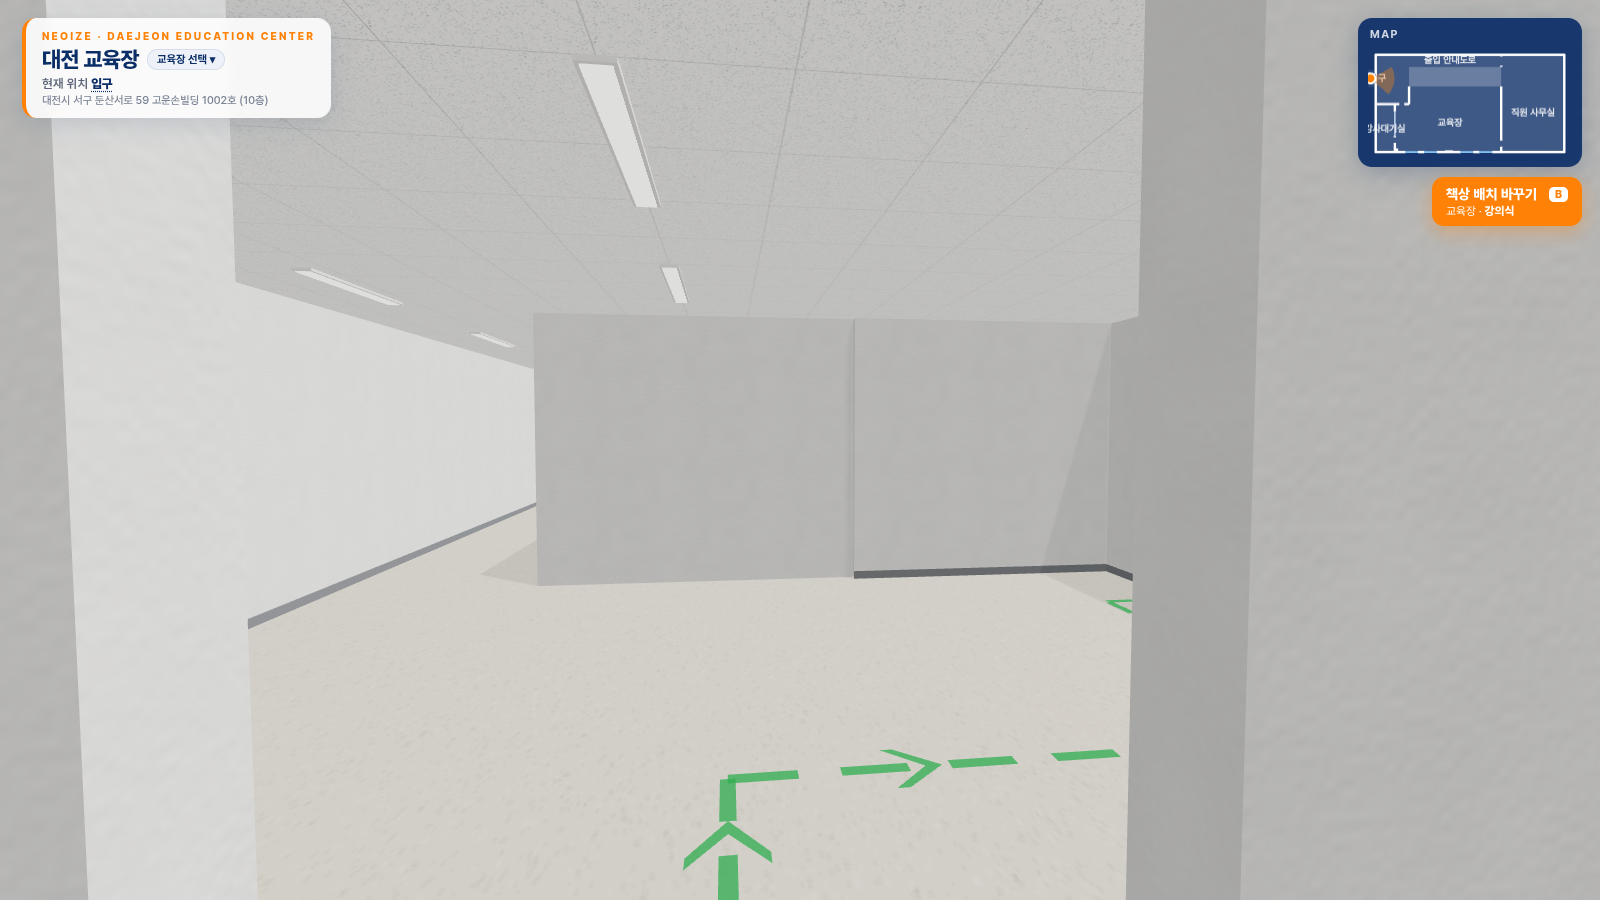
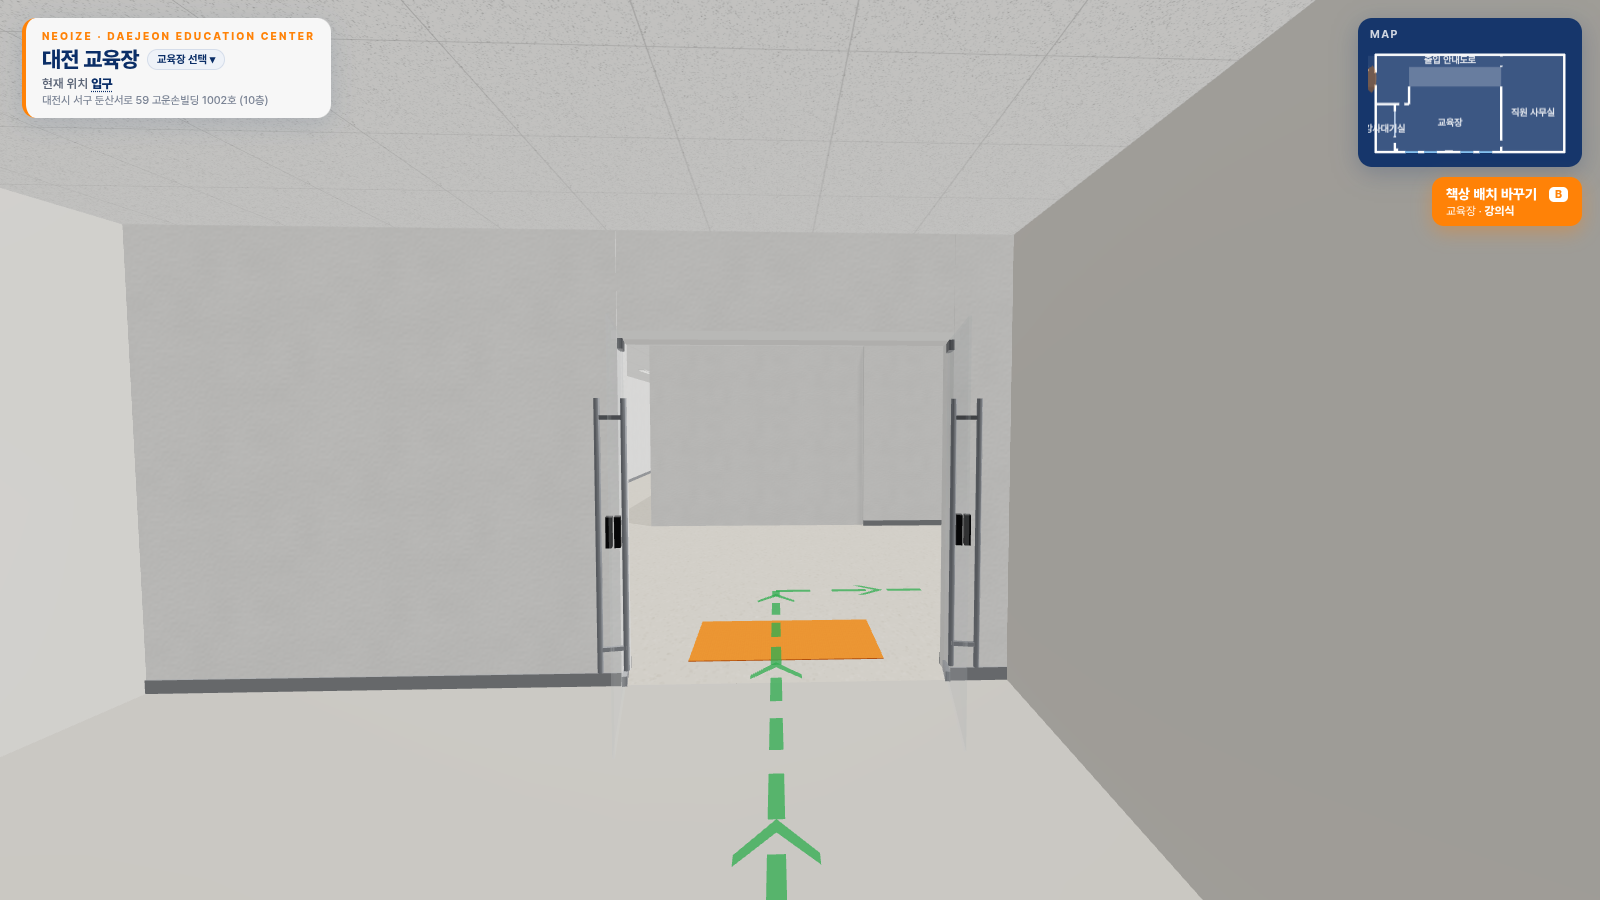
대전 입구를 f7228b4 구조로 되돌림(엘리베이터 로비·유리 양문·주황 매트·경로·시작 위치)

diff --git a/sites/daejeon/layout.js b/sites/daejeon/layout.js
@@ -7,7 +7,7 @@
    - 교육장(빨간 선, L자): 윗부분 x5.62–20.83 z5.30–8.19 + 아랫부분 x3.28–20.83 z8.19–16.15
    - 출입 안내도로(복도): 북쪽 띠 z0–5.30, 서쪽 x0–3.28, 동쪽 x20.83–31.36
    - 북쪽 띠 안의 흰 상자(px x153–348, y50–91) = 다른 공간(투어 제외) → columns 의 label 블록
-   - 입구(공식 안내도 10F 기준): 엘리베이터(서쪽 벽 바로 밖) → 서쪽 벽의 문 없는 틈 z3.28–4.68 → 서쪽 복도를 따라 남쪽 → 교육장 북서쪽 문(z8.19)
+   - 입구(공식 안내도 10F 기준): 엘리베이터(건물 서쪽 밖 로비) → 서쪽 바깥벽 z3.05–5.05 유리 양문 → 서쪽 복도를 따라 남쪽 → 교육장 북서쪽 문(z8.19)
    - 안내도 명칭: 북쪽 띠 안 상자 = 온라인 교육장, 서쪽 아래 = 강사대기실, 동쪽 = 직원 사무실 (투어는 교육장 중심)
    ※ 도면 비율로 잡은 추정값이에요. 실측값을 받으면 숫자만 바꾸면 됩니다.
    ===================================================================== */
@@ -17,7 +17,7 @@ window.LAYOUT = {
   photoDir: 'sites/daejeon/photos/',
 
   // 건물 밖 엘리베이터 로비(안내도: 엘리베이터는 서쪽 바깥벽 밖, 화장실은 엘리베이터 북쪽) — 걸을 수 있는 바닥 + 벽·천장
-  outside: [ [-1.3, 2.6, 0, 5.4] ],   // 엘리베이터 앞 얕은 승강장(1.3m) — 서쪽 벽의 열린 틈으로 바로 서쪽 복도와 이어짐
+  outside: [ [-4.6, 0.3, 0, 5.4] ],
   outsideWalls: true,
   backdrop: [ { side:'south', dist:9 } ],   // 남쪽 창밖 하늘 + 도시
 
@@ -27,9 +27,9 @@ window.LAYOUT = {
       card:{ photos:[],
              desc:'대전 교육장(L자 공간). 동쪽 벽 앞에 천장형 전동 스크린과 양옆 유리 화이트보드, 천장 빔프로젝터가 있고, 남쪽은 큰 창문 4개예요. 흰 접이식 책상 4열 × 4개(32석), 메시 등받이 의자. 북서쪽 벽을 따라 정수기 · 제빙기 · 커피머신이 있어요.',
              services:['전동 스크린','빔프로젝터','유리 화이트보드','스피커','냉난방','정수기','제빙기','커피머신'] } },
-    { id:'entrance', name:'입구', en:'Entrance', small:true, rect:[0, 2.11, 5.62, 8.19], rects:[[-1.3, 2.6, 0, 5.4]], floor:'floor',
-      label:[0.5, 3.98], jump:{ x:-0.75, z:3.98, look:[4.45, 4.6] },
-      card:{ photos:[], desc:'10층 엘리베이터에서 내리면 문 없이 바로 서쪽 복도(출입 안내도로)예요. 초록 경로를 따라 복도를 남쪽으로 내려가면 교육장 북서쪽 문이에요. 화장실은 엘리베이터 바로 북쪽이에요.' } },
+    { id:'entrance', name:'입구', en:'Entrance', small:true, rect:[0, 2.11, 5.62, 8.19], rects:[[-4.6, 0.3, 0, 5.4]], floor:'floor',
+      label:[-2.3, 2.6], jump:{ x:-3.7, z:3.98, look:[4.45, 4.3] },
+      card:{ photos:[], desc:'10층 엘리베이터에서 내리면 바로 동쪽(오른쪽)에 출입문이 있어요. 들어와서 초록 경로를 따라 서쪽 복도로 남쪽으로 내려가면 교육장 북서쪽 문이에요. 화장실은 엘리베이터 북쪽이에요.' } },
     { id:'road_w', name:'강사대기실', en:'Instructor Room', small:true, rect:[0, 8.19, 3.28, 16.15], floor:'floor', label:[1.64, 12.2],
       jump:{ x:1.6, z:10.0, look:[1.6, 15.0] }, card:{ photos:[], desc:'교육장 서쪽의 강사대기실. 교육장 뒤(서쪽) 벽의 흰 문으로 이어져요.' } },
     { id:'road_n', name:'출입 안내도로', en:'Corridor', small:true, rect:[0, 0, 20.83, 2.11], floor:'floor', label:[12.4, 1.05],
@@ -42,8 +42,8 @@ window.LAYOUT = {
 
   // 바닥 동선(안내도의 초록 '이동경로'): 엘리베이터 → 서쪽 출입문 → 서쪽 복도 남쪽 → 교육장 북서쪽 문 / 엘리베이터 → 화장실(북쪽)
   routes: [
-    { color:'#2fa84f', points:[[-0.9, 3.98], [2.0, 3.98], [2.0, 7.4], [4.43, 7.4], [4.43, 9.4]] },
-    { color:'#2fa84f', opacity:0.55, points:[[-0.75, 3.5], [-0.75, 2.75]] }
+    { color:'#2fa84f', points:[[-3.9, 3.98], [2.0, 3.98], [2.0, 7.4], [4.43, 7.4], [4.43, 9.4]] },
+    { color:'#2fa84f', opacity:0.55, points:[[-3.9, 3.4], [-3.9, 1.0]] }
   ],
 
   walls: [
@@ -51,7 +51,7 @@ window.LAYOUT = {
     { from:[0, 0], to:[31.36, 0], type:'solid', outer:true },
     { from:[31.36, 0], to:[31.36, 16.15], type:'solid', outer:true },
     { from:[0, 0], to:[0, 16.15], type:'solid', outer:true,
-      openings:[ { at:3.28, width:1.4, full:true } ] },   // 입구 = 문 없는 열린 틈(엘리베이터 폭) — 엘리베이터에서 내리면 바로 서쪽 복도
+      openings:[ { at:3.05, width:2.0, door:'glass', double:true, entrance:true, frame:'white', open:true } ] },   // 입구 (px y62–88)
     // 남쪽: 초록 = 창문 4개 (px 145–172, 185–212, 262–289, 302–329)
     { from:[0, 16.15],     to:[4.99, 16.15],  type:'solid',  outer:true },
     { from:[4.99, 16.15],  to:[7.10, 16.15],  type:'window', outer:true, style:'casement', sill:0.8, head:2.4, bar:1.95, bay:0.7 },
@@ -211,11 +211,12 @@ window.LAYOUT = {
     { type:'exitSign', x:2.6, z:16.02, y:2.2, rot:0 },          // 강사대기실 남서쪽
     { type:'extinguisher', x:2.9, z:15.75 },
 
-    /* --- 엘리베이터 승강장(서쪽 벽 바로 밖, 복도로 열림): 엘리베이터 + 옆 비상구 표시, 북쪽 화장실 --- */
-    { type:'elevator', x:-1.24, z:3.98, rot:-90 },
-    { type:'exitSign', x:-1.23, z:5.05, y:2.2, rot:-90 },     // 엘리베이터 옆 비상구 표시
-    { type:'restroom', x:-0.65, z:2.62, rot:180 },            // 엘리베이터 바로 북쪽 화장실
+    /* --- 엘리베이터 로비(건물 밖 서쪽): 엘리베이터 + 옆 비상구 표시, 북쪽 화장실 --- */
+    { type:'elevator', x:-4.55, z:3.98, rot:-90 },
+    { type:'exitSign', x:-4.54, z:2.4, y:2.2, rot:-90 },
+    { type:'restroom', x:-2.3, z:0.35, rot:180 },
 
     /* --- 입구 --- */
+    { type:'mat', x:0.75, z:4.05, w:0.8, d:1.3, color:'orange' }
   ]
 };

diff --git a/index.html b/index.html
@@ -178,10 +178,10 @@ a.pk-card:hover{transform:translateY(-4px);box-shadow:0 16px 36px rgba(11,46,103
   </div>
 </aside>
 <!-- 교육장 목록: sites/sites.js / 교육장별 공간 설정: sites/<id>/layout.js (치수·가구 배치는 거기서 수정) -->
-<script src="sites/sites.js?v=11191800"></script>
+<script src="sites/sites.js?v=11191830"></script>
 <script type="importmap">{"imports":{"three":"./lib/three.module.min.js","three/addons/":"./lib/addons/"}}</script>
 <script type="module">
-const V = '11191800', SITES = window.SITES || [], q = new URLSearchParams(location.search);
+const V = '11191830', SITES = window.SITES || [], q = new URLSearchParams(location.search);
 let id = q.get('site');
 if (!id && [...q.keys()].length) id = 'seoul';            // 예전 링크(?room=… 등)는 서울 구로로
 const S = SITES.find((s) => s.id === id);

diff --git a/app.js b/app.js
@@ -5,7 +5,7 @@ import { OrbitControls } from 'three/addons/OrbitControls.js';
 import { CSS2DRenderer, CSS2DObject } from 'three/addons/CSS2DRenderer.js';
 import { RoomEnvironment } from 'three/addons/RoomEnvironment.js';
 import { mergeGeometries } from 'three/addons/BufferGeometryUtils.js';
-import { makeTextures, textTexture } from './textures.js?v=11191800';
+import { makeTextures, textTexture } from './textures.js?v=11191830';
 
 const L = window.LAYOUT, B = L.building, H = B.ceiling, EYE = B.eye || 1.6, W = B.width, D = B.depth;
 const TW = Object.assign({ exterior: 0.24, interior: 0.14, thick: 0.3 }, B.wall || {});

diff --git a/수정방법.md b/수정방법.md
@@ -310,7 +310,7 @@ ceiling: { panels:[ { rect:[x1,z1,x2,z2], nx:2, nz:3 } ],  aircon:[[x,z], ...] }
 
 ### 대전 11/19 실사 보정 (사진 + 공식 안내도 10F)
 - 주소: 대전시 서구 둔산서로 59 고운손빌딩 1002호 (10층) — `sites/sites.js`.
-- 입구(안내도, 11/19 수정): 엘리베이터가 서쪽 벽 바로 밖(얕은 승강장 1.3m, `outside` + `outsideWalls:true`)에 있고, 서쪽 벽에 문 없는 틈(z3.28–4.68)이 있어 내리면 바로 서쪽 복도 → 남쪽 → 교육장 북서쪽 문(z8.19). 화장실 문은 승강장 북쪽 벽. 바닥 초록 경로는 `routes:[...]` (여러 개 가능). 걷기 시작 = 엘리베이터 앞.
+- 입구(안내도): 건물 서쪽 밖 엘리베이터 로비(`outside` + `outsideWalls:true`, `elevator` · `restroom` 빌더) → 서쪽 바깥벽 유리 양문(z3.05–5.05) → 서쪽 복도 남쪽 → 교육장 북서쪽 문(z8.19). 바닥 초록 경로는 `routes:[...]` (여러 개 가능). 걷기 시작 = 엘리베이터 앞.
 - 공간 이름(안내도): 북쪽 상자 = 온라인 교육장(투어 제외 블록), 서쪽 아래 = 강사대기실, 동쪽 = 직원 사무실. 비상구 유도등(`exitSign`) + 소화기(`extinguisher`)는 안내도 위치.
 - 뒤(서쪽) 벽: 흰 문(비전창 `vision:'panel'`, 위 유리 채광창 `transom:true`, 넓은 흰 문틀 `casing`) → 반투명 유리 5칸(`type:'glass', style:'frost', bay:0.8`, 가는 흰 멀리언, 스위치 `switchAt`) → 흰 벽 1.2m → 튀어나온 벽 남쪽 면 좁은 흰 문(`vision:'strip'`) + 비상구 유도등.
 - 남쪽 창: `style:'casement'` (흰 프레임, 창턱 0.8m, 가로 바 1.95m, 세로 창살 `bay`). 창밖 하늘·도시 = `backdrop`.
